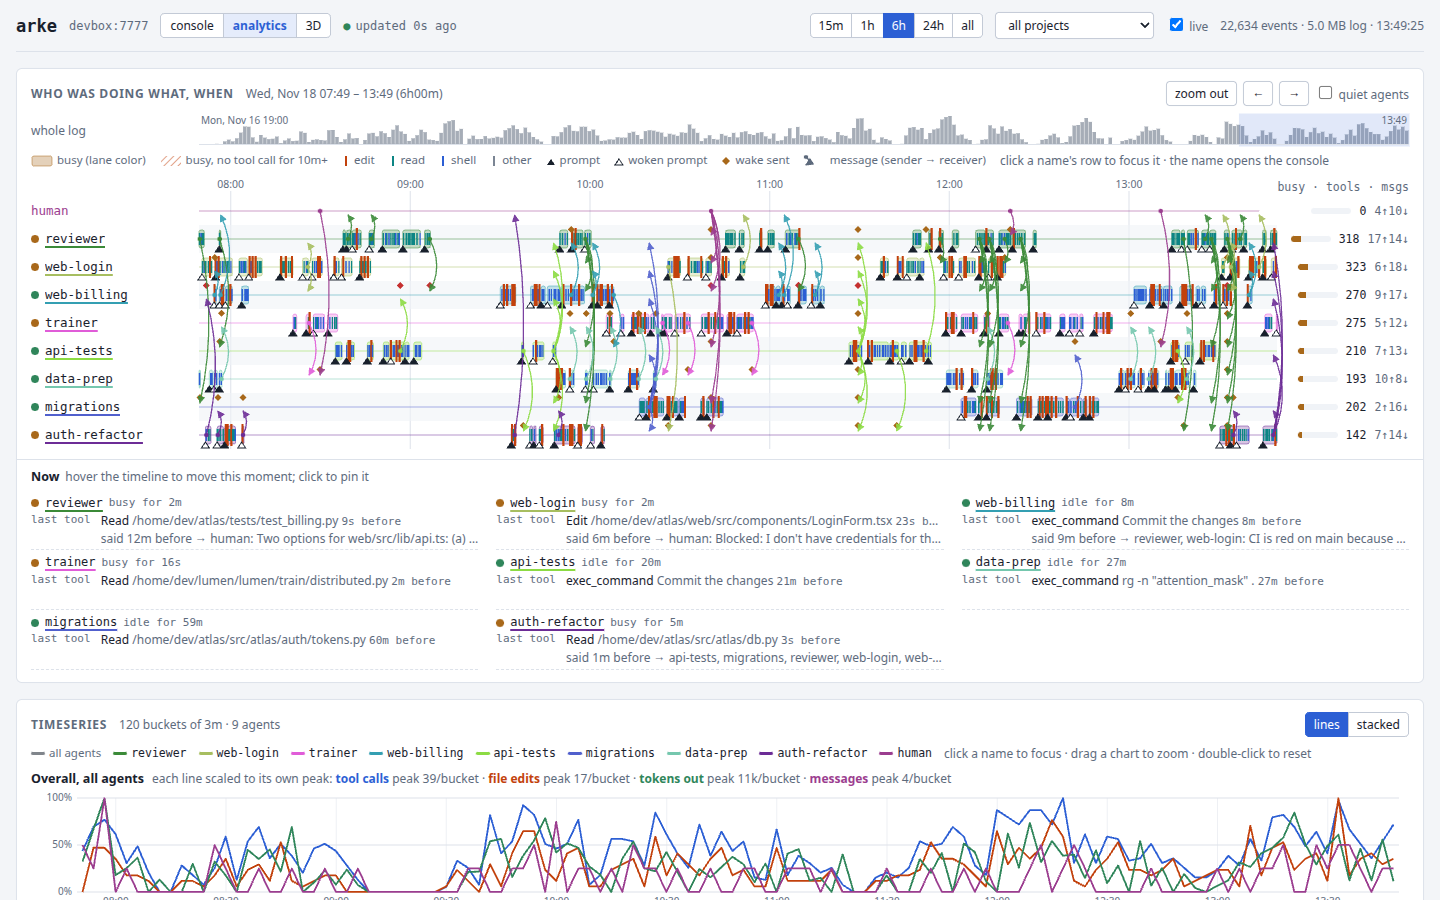
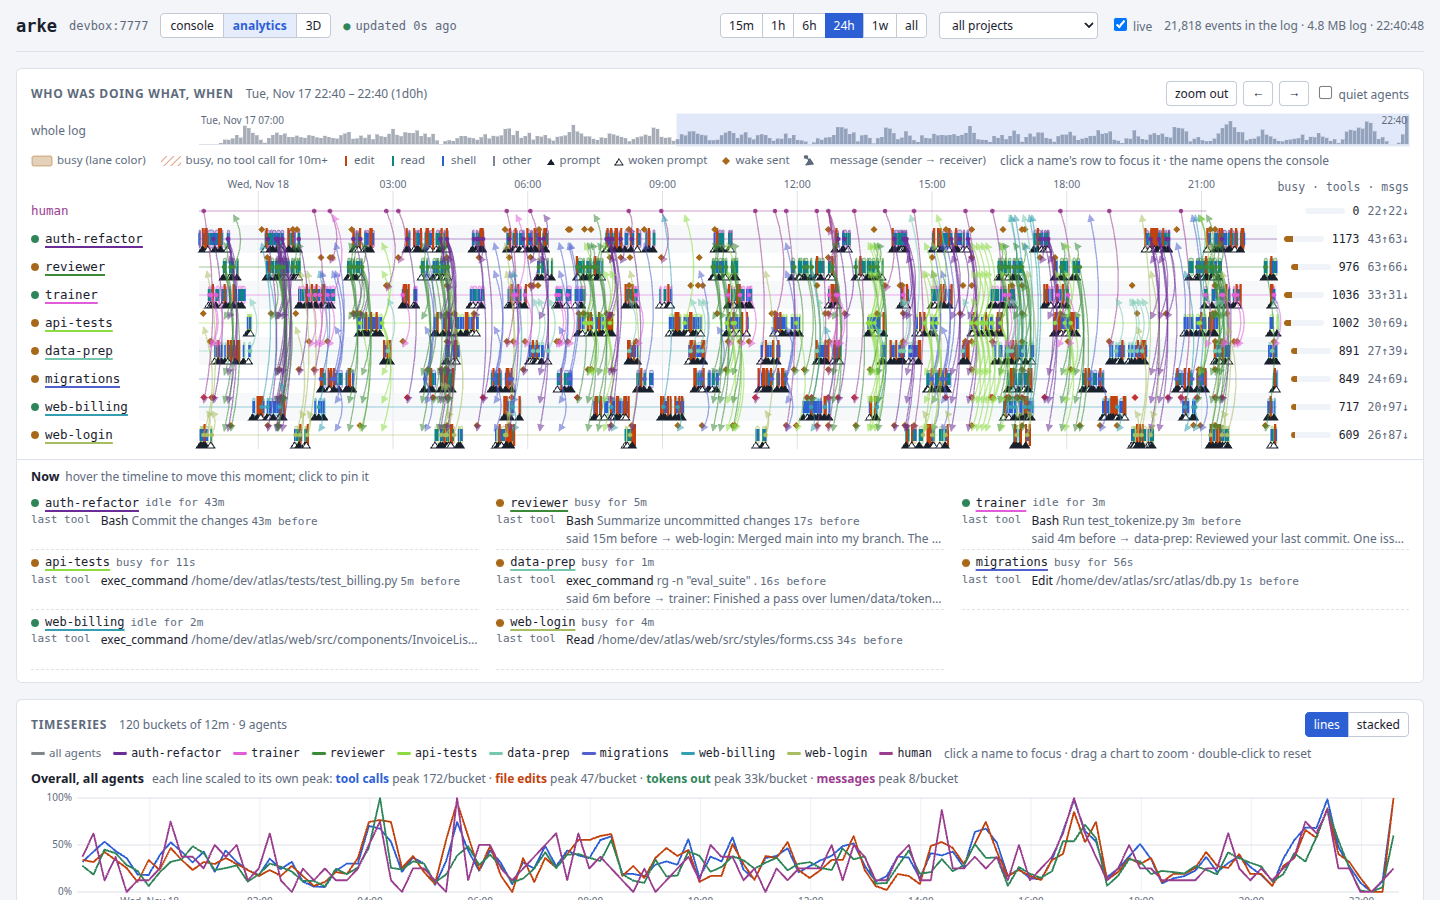
analytics pages load from a daily checkpoint; 1w range; demo ended-session fix
Both analytics pages now use /events?from=T (20e5b13) instead of reading the
whole event log, so a load costs the window's days rather than the log's size.

Pages (web/analytics-page.js, analytics.html, analytics3d.html)
- The first /events request asks from 2 minutes before the window's start;
  "all" still reads the whole log. `loadedFrom` is the checkpoint's UTC
  midnight (-Infinity for a whole-log load) and `cpHours` its hourly tool
  counts per session.
- When the window moves before what is loaded (longer range, zoom out, pan,
  "all"), the page drops its events and reloads from an earlier checkpoint. A
  change made while a load is running is picked up when that load ends. A
  server that answers without `from` is treated as a whole-log load, so nothing
  reloads in a loop.
- Requests ask for 50000 events (the server's maximum) instead of 20000.
- New "1w" range button, and the default range is 1w instead of 6h (only for
  visitors with no saved range).
- Overview strip: tool calls before `loadedFrom` come from the checkpoint's
  hourly counts, resolved from session id to current name (new `M.ofSid`);
  bins are clamped at both ends.
- Side pane: file touches and an agent's recent tool calls show only events
  since `loadedFrom`, and say so ("since <day> <time>" instead of "in the
  log"); the status line says the same.
- 3D process samples: the binary search for a byte offset (`offsetAt`) is
[…]

diff --git a/web/analytics-page.js b/web/analytics-page.js
@@ -30,6 +30,10 @@ const colorOf = n => esc((n.startsWith("/") ? projects.find(p => p.path === n) :
 
 // ---------- the event log, and the model built from it (analytics-shared.js; rebuilt on every new batch: the whole log is a few MB) ----------
 let raw = [], next = 0, M = null, eventGeneration = "";
+// With a checkpoint (the server's compacted log before a UTC midnight, then everything after it), raw holds full detail only
+// from loadedFrom on; -Infinity when the whole log was read. cpHours: hourly tool counts per session before it ("s:<sid>").
+let loadedFrom = -Infinity, cpHours = {};
+const LIMIT = 50000;  // events per request (the server's maximum); the checkpoint doesn't count against it
 function build() { M = buildModel(raw, agentsNow, nowS()); }
 // read the events of `types` since the last read, then the agents and projects; restarted() runs when the log was replaced.
 // Returns why the log was reread from the start, or "".
@@ -38,7 +42,8 @@ async function readEvents(types, restarted) {
   const restart = why => { rotated = why; console.warn(why); raw.length = 0; next = 0; eventGeneration = ""; restarted?.(); };
   for (;;) {
     let r;
-    try { r = await api(`/events?since=${next}&type=${types}&limit=20000&procs=totals&generation=${encodeURIComponent(eventGeneration)}`); }
+    const from = next ? null : wantedFrom();  // the first page starts with the checkpoint for the window's start
+    try { r = await api(`/events?since=${next}&type=${types}&limit=${LIMIT}&procs=totals&generation=${encodeURIComponent(eventGeneration)}${from == null ? "" : `&from=${from}`}`); }
     catch (e) {
       // 400 on a nonzero cursor: the log was rotated or truncated under us, so the old offset will never be valid again.
       // Reread from the start and drop what we had, or every event would appear twice.
@@ -48,10 +53,11 @@ async function readEvents(types, restarted) {
     // the log went missing or was replaced by a shorter one (a 200 with an earlier next)
     if (r.next < next) { restart("event log was replaced: reloaded from the start"); continue; }
     eventGeneration = r.generation || eventGeneration;
+    if (!next) { loadedFrom = r.from ? r.from.day : -Infinity; cpHours = r.from?.hours || {}; }  // no `from`: an older server, or no closed day
     // procs=totals: the server cut procs events to each agent's cpu/rss (their process lists are most of the log)
     for (const e of r.events) raw.push(e); got += r.events.length;
     const moved = r.next !== next; next = r.next;
-    if (r.events.length < 20000 || !moved) break;
+    if (r.events.length < LIMIT || !moved) break;
     $("status").textContent = `loading… ${raw.length} events`;
   }
   const [ag, pr] = await Promise.all([api("/agents"), api("/projects")]);
@@ -62,8 +68,13 @@ async function readEvents(types, restarted) {
 }
 
 // ---------- view state ----------
-let range = Number(pref("an.range", "21600"));  // seconds back from now; 0 = all
+let range = Number(pref("an.range", "604800"));  // seconds back from now; 0 = all
 let win = null;  // [w0, w1] when zoomed (2D only); null = follow range
+// Where loading should start: 2 minutes before the window (the cpu and git lookbacks), or null for the whole log ("all").
+const wantedFrom = () => win ? win[0] - 120 : range ? nowS() - range - 120 : null;
+// The window needs data from before what's loaded (a longer range, zoom out, pan, "all"): reload from an earlier checkpoint.
+const staleWindow = () => loadedFrom > -Infinity && (wantedFrom() ?? -Infinity) < loadedFrom;
+function resetEvents() { raw.length = 0; next = 0; eventGeneration = ""; loadedFrom = -Infinity; cpHours = {}; }
 const winNow = () => win || [range ? Math.max(M.t0, M.t1 - range) : M.t0, M.t1];
 const projSel = () => $("proj").value;
 function fillProjects() {
@@ -111,6 +122,9 @@ function graphData(w0, w1, withProj, withHuman) {
 // ---------- side pane: details for a file or an agent ----------
 // Files are M.touches entries, keyed by host + normalized path. A page can set paneResized() to redraw when the pane moves.
 const fileAt = key => M?.touches.find(t => t.key === key);
+// what the side pane's histories cover
+const loadedSpan = () => loadedFrom > -Infinity ? `since ${dayOf(loadedFrom)} ${clock(loadedFrom)}` : "in the log";
+const sinceLoaded = t => t.ts >= loadedFrom;  // checkpoint events before it are a sample, not the history
 const fileTitle = key => { const f = fileAt(key); return f ? fileLabel(f) : ""; };
 let paneResized = () => {};
 const pane = { kind: "", key: "", seq: 0 };
@@ -149,11 +163,11 @@ function paneTimeline(touches) {
 async function paneFile(key) {
   const seq = ++pane.seq; pane.kind = "file"; pane.key = key;
   const f = fileAt(key), file = f ? { path: f.path, label: fileLabel(f), local: isLocalFile(f, agentsNow) } : { path: key, label: key, local: true }, abs = file.path;
-  const touches = M.touches.filter(t => t.key === key).map(t => ({ ts: t.ts, agent: t.agent, write: t.write, tool: t.ev.tool, target: t.ev.target, desc: t.ev.desc })).sort((a, b) => a.ts - b.ts);
+  const touches = M.touches.filter(t => t.key === key && sinceLoaded(t)).map(t => ({ ts: t.ts, agent: t.agent, write: t.write, tool: t.ev.tool, target: t.ev.target, desc: t.ev.desc })).sort((a, b) => a.ts - b.ts);
   const edits = touches.filter(t => t.write).length, agents = new Map();
   for (const t of touches) { const o = agents.get(t.agent) || { e: 0, r: 0, last: 0 }; t.write ? o.e++ : o.r++; o.last = Math.max(o.last, t.ts); agents.set(t.agent, o); }
   const head = `<div class="pp mono">${esc(file.label)}</div>`;
-  const evPart = `<h4>Touches <span class="sub">${edits} edits, ${touches.length - edits} reads in the log${touches.length ? `, first ${dayOf(touches[0].ts)} ${clock(touches[0].ts)}` : ""}</span></h4>${paneTimeline(touches)}`
+  const evPart = `<h4>Touches <span class="sub">${edits} edits, ${touches.length - edits} reads ${loadedSpan()}${touches.length ? `, first ${dayOf(touches[0].ts)} ${clock(touches[0].ts)}` : ""}</span></h4>${paneTimeline(touches)}`
     + `<table class="ptab"><tbody>${[...agents].sort((a, b) => b[1].last - a[1].last).map(([n, o]) => `<tr><td>${paneAgentLink(n)}</td><td class="r">${o.e} edits</td><td class="r">${o.r} reads</td><td class="r sub">${dur(nowS() - o.last)} ago</td></tr>`).join("")}</tbody></table>`
     + `<h4>Latest</h4><ul class="plist">${touches.slice(-25).reverse().map(t => `<li><span class="sub">${clock(t.ts)}</span> ${paneAgentLink(t.agent)} <span class="pk ${t.write ? "e" : "r"}">${t.write ? "edit" : "read"}</span> <span class="sub">${esc(t.tool)}</span>${t.desc || (t.target && t.target !== abs && !abs.endsWith("/" + t.target)) ? `<div class="sub ell" title="${esc((t.desc || t.target).slice(0, 500))}">${esc((t.desc || t.target).slice(0, 200))}</div>` : ""}</li>`).join("")}</ul>`;
   paneShow(`<span class="pk f">file</span> ${esc(abs.split("/").pop())}`, head + `<div id="pfinfo" class="sub">looking the file up…</div>` + evPart);
@@ -175,7 +189,7 @@ const paneAgentLink = n => n === "human" ? `<span class="mono" style="color:var(
   : `<a class="name" style="--c:${colorOf(n)}" href="${esc(agentHref(n))}">${esc(n)}</a>`;
 async function paneAgent(name) {
   const seq = ++pane.seq; pane.kind = "agent"; pane.key = name;
-  const a = agentsNow.find(x => x.name === name), tools = (M?.lanes.get(name)?.tools || []).slice(-25).reverse();
+  const a = agentsNow.find(x => x.name === name), tools = (M?.lanes.get(name)?.tools || []).filter(sinceLoaded).slice(-25).reverse();
   const kv = (k, v) => v == null || v === "" ? "" : `<dt>${k}</dt><dd>${v}</dd>`;
   const info = a ? `<dl class="pdl">${kv("state", `<span class="flag ${esc(a.state)}">${esc(a.state)}</span>${a.reachable && a.reachable !== "yes" ? ` <span class="flag off" title="${esc(a.reachable_why || "")}">${esc(a.reachable)}</span>` : ""}${a.last_active ? ` <span class="sub">active ${dur(nowS() - a.last_active)} ago</span>` : ""}`)}`
     + kv("task", a.about ? esc(a.about) : `<span class="sub">no task set</span>`)
@@ -185,7 +199,7 @@ async function paneAgent(name) {
     + kv("host", esc(a.host || "")) + kv("tmux", a.tmux_session ? `<span class="mono">${esc(a.tmux_session)}</span>` : "")
     + kv("projects", Object.keys(a.projects || {}).map(p => `<a class="proj" style="--c:${colorOf(p)}" href="${esc(projHref(p))}">${esc(p)}</a>`).join(" "))
     + `</dl>` : `<p class="sub">Not on the bus right now (only in the event log).</p>`;
-  const toolHtml = `<h4>Recent tool calls <span class="sub">${tools.length ? "newest first" : "none in the log"}</span></h4><ul class="plist">${tools.map(t => `<li><span class="sub">${clock(t.ts)}</span> <span class="pk ${t.kind === "edit" ? "e" : t.kind === "read" ? "r" : "s"}">${esc(t.tool)}</span><div class="sub ell" title="${esc((t.desc || t.target).slice(0, 600))}">${esc((t.desc || t.target).slice(0, 220))}</div></li>`).join("")}</ul>`;
+  const toolHtml = `<h4>Recent tool calls <span class="sub">${tools.length ? "newest first" : `none ${loadedSpan()}`}</span></h4><ul class="plist">${tools.map(t => `<li><span class="sub">${clock(t.ts)}</span> <span class="pk ${t.kind === "edit" ? "e" : t.kind === "read" ? "r" : "s"}">${esc(t.tool)}</span><div class="sub ell" title="${esc((t.desc || t.target).slice(0, 600))}">${esc((t.desc || t.target).slice(0, 220))}</div></li>`).join("")}</ul>`;
   paneShow(`<span class="pk a">agent</span> ${esc(name)} <a class="btn" href="${esc(agentHref(name))}" title="open ${esc(name)} in the console">console &rarr;</a>`,
     info + `<div id="pmsgs"><h4>Messages</h4><p class="sub">loading…</p></div>` + toolHtml);
   let msgs = [], note = "";

diff --git a/web/analytics3d.html b/web/analytics3d.html
@@ -93,7 +93,7 @@ details.arr[open] > div { position: absolute; z-index: 40; top: 120%; left: 0; m
   <span class="netstat wait" id="netstat" role="status">connecting</span>
   <span class="grow"></span>
   <span class="seg" id="ranges" role="group" aria-label="Time range">
-    <button class="btn" type="button" data-r="900">15m</button><button class="btn" type="button" data-r="3600">1h</button><button class="btn" type="button" data-r="21600">6h</button><button class="btn" type="button" data-r="86400">24h</button><button class="btn" type="button" data-r="0">all</button>
+    <button class="btn" type="button" data-r="900">15m</button><button class="btn" type="button" data-r="3600">1h</button><button class="btn" type="button" data-r="21600">6h</button><button class="btn" type="button" data-r="86400">24h</button><button class="btn" type="button" data-r="604800">1w</button><button class="btn" type="button" data-r="0">all</button>
   </span>
   <select id="proj" aria-label="Project"><option value="">all projects</option></select>
   <label class="status"><input type="checkbox" id="live" checked> live</label>
@@ -244,12 +244,13 @@ async function load() {
     const rotated = await readEvents(TYPES, () => { X3.procsGen++; X3.procs = []; X3.procsNext = 0; X3.procsFrom = Infinity; });
     errSeen.clear(); $("conn").textContent = rotated;  // the bus answered: earlier errors (say, while the key was missing) are over
     await rebuild();
-    $("status").textContent = `${raw.length.toLocaleString()} events · ${(next / 1e6).toFixed(1)} MB log · ${clock(nowS(), true)}`;
+    $("status").textContent = `${raw.length.toLocaleString()} events ${loadedSpan()} · ${(next / 1e6).toFixed(1)} MB log · ${clock(nowS(), true)}`;
   } catch (e) {
     showErr(String(e.message || e), e);
     $("status").textContent = "load failed (partial data kept)";
     build(); await rebuild().catch(err => { showErr(String(err.message || err), err); });
   } finally { loading = false; }
+  if (staleWindow()) { resetEvents(); load(); }  // the range grew past the loaded data while this load ran
 }
 
 // ---------- view state ----------
@@ -487,24 +488,16 @@ function namedProcs(history, samples) {
 // ---------- side-plane data: per-agent process samples (procs events), git commits, the machine (horatio) ----------
 // Each source degrades on its own: failures are noted, never fatal.
 const X3 = { procs: [], procsFrom: Infinity, procsNext: 0, procsGen: 0, procsNote: "", git: new Map(), gitNote: "", hor: null, horNote: "", horOff: false };
-// byte offset of the first event at or after time t: binary search on the log (the server resyncs to a line start)
-async function offsetAt(t) {
-  let lo = 0, hi = next;
-  while (hi - lo > 65536) {
-    const mid = Math.floor((lo + hi) / 2), r = await api(`/events?since=${mid}&limit=1&generation=${encodeURIComponent(eventGeneration)}`);
-    if (r.events.length && r.events[0].ts < t) lo = mid; else hi = mid;
-  }
-  return lo;
-}
 async function loadProcs(w0) {
   // procs events are bulky (a sample every 15 s): only the visible window's, then increments on live reloads
   const gen = ++X3.procsGen;
   let samples = [...X3.procs], cursor = X3.procsNext, from = X3.procsFrom;
   try {
-    if (w0 < from) { samples = []; cursor = await offsetAt(w0 - 60); from = w0; }
+    if (w0 < from) { samples = []; cursor = 0; from = w0; }
     for (;;) {
       if (gen !== X3.procsGen) return;
-      const r = await api(`/events?since=${cursor}&type=procs&limit=20000&generation=${encodeURIComponent(eventGeneration)}`);
+      // from byte 0, `from` makes the server start at the window's UTC midnight (procs before it aren't kept there)
+      const r = await api(`/events?since=${cursor}&type=procs&limit=20000&generation=${encodeURIComponent(eventGeneration)}${cursor ? "" : `&from=${w0 - 60}`}`);
       if (gen !== X3.procsGen) return;
       samples.push(...r.events); const moved = r.next !== cursor; cursor = r.next;
       if (r.events.length < 20000 || !moved) break;
@@ -708,6 +701,7 @@ const recentS = () => RECENT[Number($("recent").value)] || 0;
 let rebuildGen = 0;
 async function rebuild(opts = {}) {
   if (!M) return;
+  if (staleWindow() && !loading) { resetEvents(); load(); return; }  // load() rebuilds when done; a running load rechecks at its end
   for (const b of $("ranges").children) b.setAttribute("aria-pressed", String(Number(b.dataset.r) === range));
   TL = ARR.tl;
   const ypWas = YP; YP = Math.max(HMAX * ARR.ch + 4, 62 + HMAX * (ARR.ch - 1) + gapAll() + ARR.oc); dragPlane.constant = -YP;

diff --git a/web/analytics.html b/web/analytics.html
@@ -187,7 +187,7 @@ svg.tsc .tsbr { fill: var(--accent); opacity: .15; }
   <span class="netstat wait" id="netstat" role="status">connecting</span>
   <span class="grow"></span>
   <span class="seg" id="ranges" role="group" aria-label="Time range">
-    <button class="btn" type="button" data-r="900">15m</button><button class="btn" type="button" data-r="3600">1h</button><button class="btn" type="button" data-r="21600">6h</button><button class="btn" type="button" data-r="86400">24h</button><button class="btn" type="button" data-r="0">all</button>
+    <button class="btn" type="button" data-r="900">15m</button><button class="btn" type="button" data-r="3600">1h</button><button class="btn" type="button" data-r="21600">6h</button><button class="btn" type="button" data-r="86400">24h</button><button class="btn" type="button" data-r="604800">1w</button><button class="btn" type="button" data-r="0">all</button>
   </span>
   <select id="proj" aria-label="Project"><option value="">all projects</option></select>
   <label class="status"><input type="checkbox" id="live" checked> live</label>
@@ -326,7 +326,7 @@ async function load() {
   if (loading) return; loading = true;
   try {
     $("conn").textContent = await readEvents(TYPES);
-    $("status").textContent = `${raw.length.toLocaleString()} events · ${(next / 1e6).toFixed(1)} MB log · ${clock(nowS(), true)}`;
+    $("status").textContent = `${raw.length.toLocaleString()} events ${loadedSpan()} · ${(next / 1e6).toFixed(1)} MB log · ${clock(nowS(), true)}`;
     render();
   } catch (e) {
     $("conn").textContent = String(e.message || e);
@@ -334,6 +334,7 @@ async function load() {
     console.error(e);
     build(); render();  // an interrupted reset must also replace the old model when the new log is empty
   } finally { loading = false; }
+  if (staleWindow()) { resetEvents(); load(); }  // the window moved before the loaded data while this load ran
 }
 
 // ---------- view state ----------
@@ -372,6 +373,7 @@ let renderPending = false;
 const dragging = () => drag || G.drag || TS.br;
 function render() {
   if (!M) return;
+  if (staleWindow() && !loading) { resetEvents(); load(); return; }  // load() renders when done; a running load rechecks at its end
   if (dragging()) { renderPending = true; return; }
   renderPending = false;
   tips = [];
@@ -395,8 +397,14 @@ function render() {
 
 function renderOverview(w0, w1) {
   const svg = $("ov"), width = svg.clientWidth || W, n = Math.max(20, Math.floor(width / 4)), a = M.t0, b = M.t1, bins = new Array(n).fill(0);
-  for (const L of M.lanes.values()) if (inProj(L)) for (const e of L.tools) bins[Math.min(n - 1, Math.floor((e.ts - a) / (b - a) * n))]++;
-  for (const m of M.msgs) bins[Math.min(n - 1, Math.floor((m.ts - a) / (b - a) * n))]++;
+  const bin = (t, k = 1) => { bins[Math.max(0, Math.min(n - 1, Math.floor((t - a) / (b - a) * n)))] += k; };
+  // tool calls: loaded events from loadedFrom on, the checkpoint's hourly counts before it (its tool events are only a sample)
+  for (const L of M.lanes.values()) if (inProj(L)) for (const e of L.tools) if (e.ts >= loadedFrom) bin(e.ts);
+  for (const [cell, k] of Object.entries(cpHours)) {
+    const [hour, who] = cell.split("|"), name = who.startsWith("s:") ? M.ofSid(who.slice(2)) : who.slice(2), L = name && M.lanes.get(name);
+    if (L && inProj(L)) bin(Number(hour) * 3600 + 1800, k);
+  }
+  for (const m of M.msgs) bin(m.ts);  // every message is kept, so these are exact
   const mx = Math.max(1, ...bins), bw = width / n;
   let h = bins.map((v, i) => v ? `<rect x="${i * bw}" y="${30 - v / mx * 28}" width="${Math.max(1, bw - 0.5)}" height="${v / mx * 28}" fill="var(--muted)" opacity=".55"/>` : "").join("");
   const x0 = X(w0, a, b, width), x1 = X(w1, a, b, width);

diff --git a/web/analytics-shared.js b/web/analytics-shared.js
@@ -79,7 +79,9 @@ function eventNames(events) {
     refs.set(e, at);
     if (e.event === "forget") current.delete(e.agent);
   }
-  return (e, name) => { const o = refs.get(e)?.get(name); return o ? root(o).name : name; };
+  const nameAt = (e, name) => { const o = refs.get(e)?.get(name); return o ? root(o).name : name; };
+  nameAt.ofSid = sid => { const o = sessions.get(sid); return o ? root(o).name : null; };  // a session's current name
+  return nameAt;
 }
 // A takeover can merge owners that shared a sample: keep both their usage and their process lists.
 function processAgents(e, nameAt) {
@@ -159,7 +161,7 @@ function buildModel(raw, agentsNow, now) {
     u.win = u.window || (u.context ? (u.model.includes("[1m]") || big.has(u.sid) ? 1e6 : 2e5) : 0);
   }
   procs.sort((a, b) => a.ts - b.ts);
-  return { lanes, msgs, touches, usage, procs, firstTool, t0: isFinite(t0) ? t0 : now - 3600, t1: Math.max(isFinite(t1) ? t1 : 0, now) };
+  return { lanes, msgs, touches, usage, procs, firstTool, ofSid: nameAt.ofSid, t0: isFinite(t0) ? t0 : now - 3600, t1: Math.max(isFinite(t1) ? t1 : 0, now) };
 }
 // busy spans [a, b] clipped to [w0, w1]
 function busySpans(L, w0, w1, agentsNow, now) {

diff --git a/demo/fake-api.js b/demo/fake-api.js
@@ -359,6 +359,7 @@ function advance(now) {
   pending = pending.filter(p => p.ts > now);
   for (const p of ready) {
     const a = p.a, ts = p.ts;
+    if (a?.stopAt && ts > a.stopAt) continue;  // the turn running when its session ended never finishes
     if (p.tick != null) sample(ts, p.tick);
     else if (p.msg) deliver(ts, p.msg);
     else if (p.rename) rename(a, p.rename, ts, "human");
@@ -451,7 +452,7 @@ function transcript(a, q) {
   return r;
 }
 function events(q) {
-  const since = Number(q.get("since")) || 0, limit = Math.min(Number(q.get("limit")) || 20000, 20000), types = q.get("type") ? new Set(q.get("type").split(",")) : null;
+  const since = Number(q.get("since")) || 0, limit = Math.max(1, Math.min(Number(q.get("limit")) || 5000, 50000))  /* the server's default and maximum */, types = q.get("type") ? new Set(q.get("type").split(",")) : null;
   if (since > LOG.length * REC || (since && q.get("generation") && q.get("generation") !== GEN)) return err(400, "the log is shorter than that offset");
   const out = [];
   let i = Math.ceil(since / REC);

diff --git a/arke/checkpoints.py b/arke/checkpoints.py
@@ -97,19 +97,15 @@ def rules(e: dict[str, Any]) -> list[tuple[str, str]]:
         source: str = str(e.get("source", ""))
         out.append(("newest", f"usage|{sid}|{source}"))  # the tokens-out baseline
         context: float = number(e.get("context"))
+        # the context gauge's starting value
         if context > 0:
-            out.append(
-                ("newest", f"context|{sid}|{source}")
-            )  # the context gauge's starting value
+            out.append(("newest", f"context|{sid}|{source}"))
+        # the window guess: 1M once a session went past 200k
         if context > 200000:
-            out.append(
-                ("first", f"big|{sid}")
-            )  # the window guess: 1M once a session went past 200k
+            out.append(("first", f"big|{sid}"))
     elif ev == "tool":
-        out += [
-            ("first", f"tool|{sid}"),
-            ("last", f"tool|{sid}"),
-        ]  # lane first seen; last tool / silent
+        # the lane's last tool call and "silent" in the now table (the log's first one is kept as "type|tool")
+        out.append(("last", f"tool|{sid}"))
         projects: Any = e.get("projects")
         for p in projects if isinstance(projects, list) else []:
             out.append(("first", f"project|{sid}|{p}"))  # the project filter

diff --git a/demo/build.py b/demo/build.py
@@ -47,6 +47,8 @@ REWRITES: list[tuple[str, str, str, int]] = [
     ("analytics3d.html", '"/vendor/', '"./vendor/', 2),
     ("analytics-page.js", '"/#agent/"', '"./#agent/"', 1),
     ("analytics-page.js", '"/#project/"', '"./#project/"', 1),
+    # the demo's invented history covers about two days: a week-long default view would be mostly empty
+    ("analytics-page.js", 'pref("an.range", "604800")', 'pref("an.range", "86400")', 1),
 ]
 # what must not survive in a built page: a path that only the real server answers
 LEFTOVERS: tuple[str, ...] = ('src="/', 'href="/', '"/vendor/')
